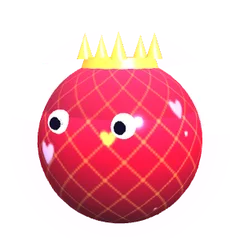
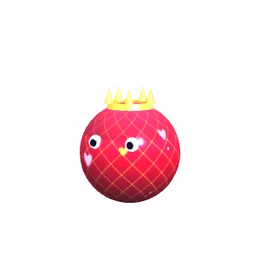
2.7: news poster in a wide window, Кибер-сетка retired, no antennae on Неон and Глитч
- The news window uses the screen width; the poster tiles sit 3 + 3 in
  landscape and 2 per row in portrait; the window opens at its top.
- «Кибер-сетка» repeated «Неон»: archived, out of the shop, the Кибер
  collection, level rewards and bots. Owners get «Неон», or 7200 coins if
  they already have it; the worn skin follows. One line in the notice.
- Неон and Глитч lose the antenna head.
- Hero images re-rendered unclipped; random build and boss raid named as
  updated; compact pause buffs; grouped update cards.

Claude-Session: https://claude.ai/code/session_01BGg67QGFc2pPgh9iksJ3Cf

diff --git a/kapli-3d/js/game/08-menus.js b/kapli-3d/js/game/08-menus.js
@@ -88,7 +88,7 @@
     tutModal(title, body, done && !save.tourSeen ? [['tourGo', 'Дальше: тур по меню', 'btn'], ['tutOk', 'Пропустить тур', 'btn ghost']] : [['tutOk', 'В меню', 'btn']]);
   }
   function tutModal(title, body, btns) {
-    $('tutMName').textContent = title; $('tutMBody').innerHTML = body;
+    $('tutMName').textContent = title; $('tutMBody').innerHTML = body; $('tutModal').classList.remove('nw-wide');
     $('tutMActs').innerHTML = btns.map(([id, t, cls]) => `<button class="${cls}" id="${id}">${t}</button>`).join('');
     $('tutModal').hidden = false; $(btns[0][0]).focus();
   }
@@ -157,33 +157,49 @@
   const NEWS = [
     // 2.7: the first entry with cards — a hero card and a grid; each card opens big (newsBig). Older entries stay text in «Архив обновлений».
     { id: 200, ver: '2.7.0', date: '24 ноября', title: 'Характеры и живая арена', kind: 'season',
-      lead: 'Выбирай характер, переживи события арены и опробуй обновлённые скины.',
-      hero: { imgs: ['neon', 'h_valentine', 's_7', 'h_halloween', 's_25'], body: '<p>Самое большое обновление осени: характеры перед раундом, восемь событий арены, новый Случайный билд и Босс-рейд, переработанные способности, игра вдвоём по ссылке, обновлённые скины, рамки и титулы — и заметно плавнее на телефонах.</p><p>Листай карточки или открой любую, чтобы прочитать подробнее.</p>' },
+      lead: 'Характеры, события арены, игра вдвоём через интернет, эволюции скинов и новый вид меню.',
+      poster: { sub: 'Характеры · живая арена · вдвоём через интернет · эволюции скинов', foot: 'Ниже — все 16 изменений по группам',
+        tiles: [[0, '#22e6ff', 'chars', 'Характеры', 'Выбери характер перед раундом: у каждого плюс и минус'], [1, '#ff4fd8', 'events', 'Живая арена', 'Восемь событий меняют раунд прямо на ходу'],
+          [8, '#ffd23f', 'online', 'Вдвоём через интернет', '«Захват территории» и «Спина к спине» на любом расстоянии'], [9, '#b26bff', 'evo', 'Эволюции скинов', 'Скины растут в формах I–III прямо в раунде'],
+          [4, '#3dffa2', 'modes', 'Режимы обновлены', 'Классика, Хардкор, Случайный билд и Босс-рейд'], [15, '#ff9a3d', 'fps', 'Плавнее', 'Меньше рывков на телефонах — картинка та же']] },
+      hero: { imgs: ['neon', 'h_valentine', 's_7', 'h_halloween', 's_25'], body: '<p>Самое большое обновление осени. Перед раундом выбираешь характер, на арене случаются события, обновлены Классика, Хардкор, Случайный билд и Босс-рейд, режимы для двоих теперь работают через интернет. Скины растут в формах прямо в раунде, многие получили новый облик, рамки стали объёмными, титулы — лентами, вкладки перекомпонованы — и игра заметно плавнее на телефонах.</p><p>Листай карточки или открой любую, чтобы прочитать подробнее.</p>' },
       cards: [
-        { t: 'Характеры', l: 'Перед раундом выбери, каким будешь: у каждого свой плюс и минус.', v: 'chars',
+        { g: 'Игра', t: 'Характеры', l: 'Перед раундом выбери, каким будешь: у каждого свой плюс и минус.', v: 'chars',
           b: '<p>Перед каждым одиночным раундом открывается окно выбора характера.</p><ul><li><b>Хищник</b> — съеденные боты и боссы дают +15%, но таешь на 10% быстрее.</li><li><b>Собиратель</b> — крошки +30% и притягиваются издалека, боты дают −15%.</li><li><b>Танк</b> (с 10 уровня) — съесть тебя можно только будучи крупнее в 1,4 раза, но ты на 8% медленнее.</li><li><b>Призрак</b> (с 15) — боты замечают тебя вдвое позже, масса растёт на 10% медленнее.</li><li><b>Берсерк</b> (с 20) — перезарядка −15%, но щит и бонусы короче на 25%.</li></ul><p>В рейтинговых играх характеров нет.</p>' },
-        { t: 'События арены', l: 'Восемь событий меняют раунд прямо на ходу.', v: 'events',
+        { g: 'Игра', t: 'События арены', l: 'Восемь событий меняют раунд прямо на ходу.', v: 'events',
           b: '<p>О событии предупреждают заранее, а на мини-карте видно, где оно.</p><ul><li><b>Звездопад</b> — метеоры в отмеченной зоне, между ними золотые капли.</li><li><b>Разлом</b> — тянет к центру, касание центра отнимает 10% массы.</li><li><b>Ветер</b> — сносит всех в одну сторону.</li><li><b>Затмение</b> — темно, мини-карта гаснет, боты видят вдвое ближе.</li><li><b>Золотая капля</b> — убегает по полю, поймай за монеты.</li><li><b>Монетный дождь</b> — монеты сразу за каждого съеденного.</li><li><b>Землетрясение</b> — край арены горит, снаружи кольца масса тает.</li><li><b>Награда за голову</b> — самая крупная капля помечена.</li></ul>' },
-        { t: 'Случайный билд', l: 'На вехах — пауза и две карточки замены с редкостью.', v: 'rb',
-          b: '<p>На вехах массы игра встаёт на паузу и предлагает две карточки: можно заменить одну из способностей. Карточки бывают обычные, редкие, эпические и легендарные — чем реже, тем сильнее.</p>' },
-        { t: 'Босс-рейд', l: 'Пять ступеней сложности и пара колоссов-близнецов.', v: 'raid',
-          b: '<p>Перед стартом выбери ступень от I до V. Колоссы атакуют волнами, рывками и взрывами, у колосса недели — особая атака. За ступень V — титул «Гроза колоссов».</p>' },
-        { t: 'Способности', l: 'Две новые и честный баланс остальных.', v: 'abil',
-          b: '<ul><li><b>Метка</b> вместо Скачка: первое нажатие ставит метку, второе в течение 10 с переносит к ней.</li><li><b>Засада</b> вместо Маскировки: ешь капли при меньшем перевесе и получаешь больше массы.</li><li>Насыщение и Сжатие переработаны, сильные способности урезаны, слабые усилены.</li></ul>' },
-        { t: 'Вдвоём онлайн', l: 'Комната по ссылке и плавное движение соперника.', v: 'online',
-          b: '<ul><li>Код комнаты можно отправить ссылкой — по ней друг сразу попадает в комнату.</li><li>Движение второго игрока сглажено, связь сама восстанавливается.</li><li>Исправлены ник в таблице, таймер щита и вечная неуязвимость в «Захвате территории».</li></ul>' },
-        { t: 'Пауза с бафами', l: 'На паузе видно, какие улучшения ты выбрал.', v: 'pause',
-          b: '<p>В меню паузы появился блок «Твои бафы»: выбранные в раунде карточки и когда ты их взял, минусы отмечены отдельно. Бафы скорости теперь действительно ускоряют.</p>' },
-        { t: 'Обновлённые скины', l: 'Скины переделаны, годовые — с живой анимацией.', v: 'skins',
+        { g: 'Игра', t: 'Способности', l: 'Две новые и честный баланс остальных.', v: 'abil',
+          b: '<ul><li><b>Метка</b> вместо Скачка: первое нажатие ставит метку, второе в течение 10 с переносит к ней.</li><li><b>Засада</b> вместо Маскировки: ешь капли при меньшем перевесе и получаешь больше массы.</li><li>Насыщение и Сжатие переработаны, сильные способности урезаны, слабые усилены.</li><li>Купленные способности — компактной сеткой плиток.</li></ul>' },
+        { g: 'Игра', t: 'Рост и скорость', l: 'Все капли быстрее, большие растут медленнее.', v: 'grow',
+          b: '<ul><li>Все капли во всех режимах на 35% быстрее.</li><li>С 10 000 массы капля растёт медленнее и в размере, и в массе (кроме Хардкора и Босс-рейда) — большая игра стала дольше и интереснее.</li><li>Намного более тяжёлой капле достаточно накрыть центр меньшей, чтобы её съесть.</li><li>Шипы уходят с поля после 10 000, замедления стали короче.</li></ul>' },
+        { g: 'Режимы', t: 'Классика', l: 'На 50 000 капля делится — вырасти обе половины.', v: 'classic',
+          b: '<p>Классика стала сложнее и интереснее: вехи массы с наградой, боссы растут вслед за тобой, боты смелее. На 50 000 капля делится на две половины — цель вырастить обе. Капля, потерявшая половину, снова делится, когда опять дорастёт до 50 000.</p>' },
+        { g: 'Режимы', t: 'Хардкор', l: 'Двойной укус, проклятия, стаи и новые награды.', v: 'hc',
+          b: '<ul><li>Победа — удержать обе половины на 50 000 в течение 15 секунд.</li><li><b>Двойной укус</b>: две половины вместе съедают босса и делят его массу.</li><li>Проклятия раз в минуту-полторы, стаи ботов, на вехах — карточки улучшений с риском.</li><li>Стая, укусив тебя, 2,5 с не кусает снова.</li><li>Новые награды: значки лестницы 75K и 88K и фон «Трон затмения».</li></ul>' },
+        { g: 'Режимы', t: 'Случайный билд — обновлён', l: 'На вехах — пауза и две карточки замены с редкостью.', v: 'rb',
+          b: '<p>Раньше билд выпадал один раз на раунд. Теперь на пяти вехах массы игра встаёт на паузу и предлагает две карточки — можно заменить одну из способностей. Карточки бывают обычные, редкие, эпические и легендарные: чем реже, тем больше уровней на этот раунд.</p>' },
+        { g: 'Режимы', t: 'Босс-рейд — обновлён', l: 'Недельная лестница из пяти ступеней и пара колоссов.', v: 'raid',
+          b: '<p>Вместо трёх попыток в день — недельная лестница: перед стартом выбери ступень от I до V. Колоссы-близнецы с тремя фазами, атаки видно заранее, у колосса недели — особая атака. За ступень V — титул «Гроза колоссов».</p>' },
+        { g: 'Вдвоём', t: 'Вдвоём через интернет', l: '«Захват территории» и «Спина к спине» — на любом расстоянии.', v: 'online',
+          b: '<ul><li>Режимы для двоих работают через сервер игры: можно играть с другом в другом городе.</li><li>Код комнаты можно отправить ссылкой — по ней друг сразу попадает в комнату.</li><li>Движение второго игрока сглажено, связь сама восстанавливается, «Выход» завершает матч у обоих.</li><li>«Захват территории»: поле меньше, боты медленнее, крошек больше.</li></ul>' },
+        { g: 'Коллекция', t: 'Эволюции скинов', l: 'Семь скинов растут в формах I–III прямо в раунде.', v: 'evo',
+          b: '<p>Скины с эволюцией меняют форму, когда ты выполняешь цель: прямо в раунде — вспышка, кольца и звук, потом окно «Эволюция!». Любую открытую форму можно надеть в гардеробе. Живые фоны профиля «Арена Берсерка», «Двойная спираль» и «Пятидесятая волна» растут вместе со своими скинами. Скины с эволюцией отмечены значком ДНК.</p>' },
+        { g: 'Коллекция', t: 'Обновлённые скины', l: 'Новый облик, годовые — с живой анимацией.', v: 'skins',
           b: '<p>Многие скины получили новый облик. «Королева сердец», «Тыквенный король», «Пульсар» и «Вулкан» анимированы целиком: плывут сердца, мерцает свеча, бегут лучи, течёт лава. Новые скины: «Мятная капля» для новичков, «Ягодный пончик», «Аквариум», «Обсидиан» и «Охотник на боссов». Если у тебя был переделанный скин — он остался у тебя в новом виде.</p>' },
-        { t: 'Рамки и титулы', l: 'Меньше, но ценнее: объёмные рамки и титулы-ленты.', v: 'deco',
-          b: '<p>Рамки стали объёмными, как стекло, а титулы — наградными лентами под ником. Похожие награды объединены: если у тебя была убранная рамка или титул, ты получил ближайшую оставшуюся (а если она уже была — монеты).</p>' },
-        { t: 'Плавнее на телефонах', l: 'Меньше рывков даже при огромной массе.', v: 'fps',
-          b: '<p>Мы переработали отрисовку арены: одинаковые детали рисуются за один раз, шейдеры готовятся до начала раунда, игра реже останавливается на уборку памяти. Картинка та же, рывков заметно меньше.</p>' },
+        { g: 'Коллекция', t: 'Рамки и титулы', l: 'Меньше, но ценнее: объёмные рамки и титулы-ленты.', v: 'deco',
+          b: '<p>Рамки стали объёмными, как стекло, а титулы — наградными лентами. Похожие награды объединены: если у тебя была убранная рамка или титул, ты получил ближайшую оставшуюся (а если она уже была — монеты). «Мастер оружия» теперь дают за 5-й уровень всех обычных способностей.</p>' },
+        { g: 'Коллекция', t: 'Хронос 2.0', l: 'Мастерская: 23 предмета и легендарный «Скелетон».', v: 'gear',
+          b: '<p>Серия Мастерской «Хронос» собрана заново: 23 предмета вместо прежнего набора, шестерёнки сцепляются, песочные часы переворачиваются. «Скелетон» стал легендарным скином с эволюцией. Предметы, которые больше не создаются, остаются у тех, кто успел.</p>' },
+        { g: 'Меню', t: 'Вкладки и меню', l: 'Перекомпоновка экранов, группы и одна иконка на вещь.', v: 'tabs',
+          b: '<ul><li>Четыре экрана перекомпонованы, исправлены ошибки и устаревшие тексты, обновлена справка.</li><li>Профиль, гардероб и питомцы: вместо стопки ящиков — ряд групп-кнопок, плитки компактнее.</li><li>Одна иконка на каждую вещь — в магазине, гардеробе и коллекциях; арена везде стадион.</li><li>Обновления — карточками, старые версии в архиве.</li></ul>' },
+        { g: 'Меню', t: 'Пауза с бафами', l: 'На паузе видно, какие улучшения ты выбрал.', v: 'pause',
+          b: '<p>В меню паузы появился блок «Твои бафы»: выбранные в раунде карточки и когда ты их взял, минусы отмечены отдельно. Бафы скорости теперь действительно ускоряют.</p>' },
+        { g: 'Техника', t: 'Плавнее на телефонах', l: 'Меньше рывков даже при огромной массе.', v: 'fps',
+          b: '<p>Отрисовка арены переработана: одинаковые детали рисуются за один раз, шейдеры готовятся до начала раунда, игра реже останавливается на уборку памяти. Картинка та же, рывков заметно меньше.</p>' },
       ],
-      items: ['Характеры перед одиночным раундом: Хищник, Собиратель, Танк, Призрак, Берсерк.', 'Восемь событий арены.', 'Случайный билд: карточки замены с редкостью на вехах.', 'Босс-рейд: пять ступеней и пара колоссов.',
-        'Способности: Метка вместо Скачка, Засада вместо Маскировки, баланс остальных.', 'Вдвоём онлайн: комната по ссылке, плавное движение.', 'Пауза показывает выбранные бафы.', 'Обновлённые и новые скины, годовые — с живой анимацией.',
-        'Рамки «Стекло», титулы-ленты; похожие награды объединены.', 'Плавнее на телефонах.'] },
+      items: ['Характеры перед одиночным раундом.', 'Восемь событий арены.', 'Способности: Метка, Засада, баланс.', 'Все капли быстрее, большие растут медленнее.', 'Классика: деление на 50 000.', 'Хардкор: двойной укус, проклятия, стаи, награды лестницы.',
+        'Случайный билд обновлён: замена на вехах с редкостью.', 'Босс-рейд обновлён: недельная лестница из пяти ступеней.', 'Режимы для двоих через интернет, комната по ссылке.', 'Эволюции скинов I–III в раунде.', 'Обновлённые и новые скины.',
+        'Рамки «Стекло», титулы-ленты.', 'Хронос 2.0: 23 предмета, «Скелетон».', 'Вкладки перекомпонованы, одна иконка на вещь.', 'Пауза с бафами.', 'Плавнее на телефонах.'] },
     { id: 189, ver: '2.5.0', date: '14 ноября', title: 'Вдвоём: «Захват территории» и «Спина к спине», обновлённые режимы', kind: 'season',
       lead: 'Два режима для двоих на двух телефонах и большая переработка старых режимов: у каждого теперь своя цель внутри раунда.', items: [
       '«Захват территории» вместо «Испытания дня»: поле поделено границей, ешь ботов на своей половине — граница ползёт к тому, кто легче. 4 минуты, досрочная победа при 80% поля.',
@@ -413,14 +429,24 @@
     pause: () => `<div class="nw-v nw-pause"><span class="hd">⏸ Твои бафы</span><span>Скорость +6%</span><span>Магнит +10%</span><span class="ep">Хищник +18%</span><span class="bad">Вязкость −5%</span></div>`,
     skins: () => `<div class="nw-v nw-skins">${['h_valentine', 's_7', 'h_halloween'].map(f => `<img src="news/27_${f}.webp" alt="" loading="lazy">`).join('')}</div>`,
     deco: () => `<div class="nw-v nw-deco"><span class="fr fn fr-l" style="--a:#22e6ff;--b:#b26bff">Капля</span>${titleTag('tt_sk13')}</div>`,
+    grow: () => `<div class="nw-v nw-grow"><span style="--s:14"></span><span style="--s:22"></span><span style="--s:30"></span><em>×1,35 скорость</em></div>`,
+    classic: () => `<div class="nw-v nw-classic"><span>25 000</span><b>+</b><span>25 000</span><em>цель: обе по 50 000</em></div>`,
+    hc: () => `<div class="nw-v nw-hc"><span>75K</span><span>88K</span><span class="win">100K</span><em>☠ двойной укус</em></div>`,
+    evo: () => `<div class="nw-v nw-evo"><span style="--s:18">I</span><b>→</b><span style="--s:26">II</span><b>→</b><span style="--s:34">III</span></div>`,
+    gear: () => `<div class="nw-v nw-gear"><span>⚙</span><span class="sm">⚙</span><em>23 предмета</em></div>`,
+    modes: () => `<div class="nw-v nw-modes"><span>Классика</span><span>Хардкор</span><span>Случ. билд</span><span>Босс-рейд</span></div>`,
+    tabs: () => `<div class="nw-v nw-tabs"><span class="on">Скины</span><span>Питомцы</span><span>Рамки</span><span>Титулы</span><span>Фоны</span></div>`,
     fps: () => `<div class="nw-v nw-fps"><span style="--h:92"><small>было</small></span><span style="--h:38" class="now"><small>стало</small></span><em>рывков меньше</em></div>`,
   };
   let nwCur = null, nwI = 0, nwBack = null;
   function newsCards(n) {
     nwCur = n;
-    const hero = `<button type="button" class="nw-hero" data-nw="-1" aria-haspopup="dialog"><div class="nw-v nw-skins nw-wide">${n.hero.imgs.map(f => `<img src="news/27_${f}.webp" alt="" loading="lazy">`).join('')}</div>` +
-      `<div class="nw-ht"><span class="nw-tag">${n.ver} · ${NEWS_KIND[n.kind || 'update'][1].replace(/^\S+\s/, '')} · ${n.date}</span><b>${n.title}</b><span>${n.lead}</span></div></button>`;
-    return hero + `<div class="nw-grid">${n.cards.map((c, i) => `<button type="button" class="nw-card" data-nw="${i}" aria-haspopup="dialog">${NW_VIS[c.v]()}<span class="nw-ct">${c.t}</span><span class="nw-cl">${c.l}</span></button>`).join('')}</div>` +
+    // 2.7: the main card is a poster (owner's reference): the logo, the version, a line of highlights, six neon tiles that open their cards, a footer
+    const P = n.poster, hero = `<section class="nw-poster" aria-label="Обновление ${n.ver}"><div class="nw-ph"><b class="nw-logo">Капли <i>3D</i></b><span class="nw-pill">Обновление ${n.ver}</span></div>` +
+      `<p class="nw-psub">${P.sub}</p><div class="nw-tiles">${P.tiles.map(([i, col, vis, t, l]) => `<button type="button" class="nw-tile" style="--c:${col}" data-nw="${i}" aria-haspopup="dialog"><b>${t}</b><span>${l}</span>${NW_VIS[vis]()}</button>`).join('')}</div>` +
+      `<div class="nw-pf"><span>${P.foot}</span><button type="button" data-nw="-1">Обзор обновления ›</button></div></section>`;
+    const groups = [...new Set(n.cards.map(c => c.g || ''))];
+    return hero + groups.map(g => (g ? `<h4 class="nw-g">${g}</h4>` : '') + `<div class="nw-grid">${n.cards.map((c, i) => (c.g || '') !== g ? '' : `<button type="button" class="nw-card" data-nw="${i}" aria-haspopup="dialog">${NW_VIS[c.v]()}<span class="nw-ct">${c.t}</span><span class="nw-cl">${c.l}</span></button>`).join('')}</div>`).join('') +
       (newsGift(n) ? `<p class="news-gift">🎁 Подарок: ${newsGift(n)} ◆</p>` : '');
   }
   function newsBig(i) {
@@ -428,7 +454,7 @@
     let ov = $('nwOv'); if (!ov) { ov = document.createElement('div'); ov.id = 'nwOv'; ov.className = 'nw-ov'; ov.hidden = true; ov.innerHTML = '<div class="nw-big" id="nwBig" role="dialog" aria-modal="true" aria-labelledby="nwBt"></div>'; document.body.appendChild(ov); }
     nwI = i; const hero = i < 0, c = hero ? { t: `${n.ver} — ${n.title}`, l: n.lead, b: n.hero.body } : n.cards[i], N = n.cards.length;
     const vis = hero ? `<div class="nw-v nw-skins nw-wide">${n.hero.imgs.map(f => `<img src="news/27_${f}.webp" alt="">`).join('')}</div>` : NW_VIS[c.v]();
-    $('nwBig').innerHTML = vis + `<h2 id="nwBt">${c.t}</h2><p class="nw-bl">${c.l}</p><div class="nw-bb">${c.b}</div>` +
+    $('nwBig').innerHTML = vis + `<div class="nw-txt"><h2 id="nwBt">${c.t}</h2><p class="nw-bl">${c.l}</p><div class="nw-bb">${c.b}</div></div>` +
       `<div class="nw-nav"><button type="button" data-nwgo="-1" aria-label="Предыдущая карточка">‹</button><span>${hero ? 'обзор' : (i + 1) + ' из ' + N}</span><button type="button" data-nwgo="1" aria-label="Следующая карточка">›</button><button type="button" class="nw-x" data-nwx>Закрыть</button></div>`;
     ov.hidden = false; $('nwBig').scrollTop = 0; $('nwBig').querySelector('[data-nwx]').focus();
   }
@@ -471,7 +497,7 @@
   function openNews(onlyNew) {
     const list = onlyNew ? newsUnseen() : NEWS;
     tutModal(onlyNew ? 'Что нового' : 'Обновления', newsHtml(list), onlyNew ? [['newsOk', 'Понятно', 'btn'], ['newsAll', 'Все обновления', 'btn ghost']] : [['newsOk', 'Закрыть', 'btn']]);
-    $('tutMBody').scrollTop = 0;
+    $('tutModal').classList.add('nw-wide'); $('tutMBody').scrollTop = 0; $('tutModal').querySelector('.modal-card').scrollTop = 0;   // the button's focus scrolled the window to its end
   }
   $('newsBtn').addEventListener('click', () => { const fresh = newsUnseen().length; openNews(false); if (fresh) newsMarkSeen(); });
   $('tutModal').addEventListener('click', e => {

diff --git a/kapli-3d/css/04-features.css b/kapli-3d/css/04-features.css
@@ -790,3 +790,48 @@ body.raid-ink #stage { filter: brightness(.45) saturate(.7); transition: filter 
 .nw-bb { font-size: .92rem; color: #ddd8f8; } .nw-bb ul { padding-left: 18px; display: grid; gap: 5px; margin: 6px 0; } .nw-bb p { margin: 0 0 8px; }
 .nw-nav { display: flex; gap: 8px; align-items: center; } .nw-nav button { font: 700 .85rem/1 var(--body); color: #ece8ff; background: #1d1242; border: 1px solid rgba(150, 120, 255, .3); border-radius: 999px; padding: 10px 14px; cursor: pointer; }
 .nw-nav .nw-x { margin-left: auto; } .nw-nav span { color: #a59ccc; font-size: .78rem; }
+
+/* 2.7 updates: group headings, the new card visuals, and a wide big card in landscape (picture left, text right) */
+.nw-g { margin: 14px 2px 6px; font: 700 .74rem/1 var(--body); letter-spacing: .08em; text-transform: uppercase; color: #a59ccc; }
+.nw-grow { align-items: flex-end; gap: 8px; } .nw-grow span { width: calc(var(--s) * 1px); height: calc(var(--s) * 1px); border-radius: 50%; background: radial-gradient(circle at 35% 30%, #fff, #3dffa2 45%, #0a6a4a); } .nw-grow em { width: 100%; text-align: center; font-style: normal; font-size: .62rem; color: #3dffa2; }
+.nw-classic span { width: 52px; height: 52px; border-radius: 50%; display: grid; place-items: center; font: 700 .58rem/1 var(--body); background: radial-gradient(circle at 35% 30%, #ffb59a, #ff6a3d 55%, #7a1a00); } .nw-classic b { color: #ffd23f; } .nw-classic em { width: 100%; text-align: center; font-style: normal; font-size: .62rem; color: #ffd23f; }
+.nw-hc span { font: 700 .66rem/1 var(--body); padding: 7px 9px; border-radius: 8px; background: #2a0a12; box-shadow: inset 0 0 0 1px #ff2d55; color: #ffb0c0; } .nw-hc .win { background: #3a2400; box-shadow: inset 0 0 0 1px #ffd23f; color: #ffd23f; } .nw-hc em { width: 100%; text-align: center; font-style: normal; font-size: .62rem; color: #ff6a80; }
+.nw-evo { gap: 6px; } .nw-evo span { width: calc(var(--s) * 1px); height: calc(var(--s) * 1px); border-radius: 50%; display: grid; place-items: center; font: 700 .6rem/1 var(--body); background: radial-gradient(circle at 35% 30%, #ff9a9a, #c8102e 55%, #3a0008); box-shadow: 0 0 10px rgba(255, 45, 85, .5); } .nw-evo b { color: #ff4fd8; font-size: .8rem; }
+.nw-gear span { font-size: 2.2rem; color: #ffd27a; text-shadow: 0 0 10px rgba(255, 210, 122, .6); animation: nwSpin 6s linear infinite; } .nw-gear .sm { font-size: 1.4rem; animation-direction: reverse; } .nw-gear em { width: 100%; text-align: center; font-style: normal; font-size: .62rem; color: #ffd27a; }
+@keyframes nwSpin { to { transform: rotate(360deg); } } @media (prefers-reduced-motion: reduce) { .nw-gear span { animation: none; } }
+.nw-tabs { gap: 4px; } .nw-tabs span { font: 700 .6rem/1 var(--body); padding: 6px 8px; border-radius: 999px; background: #1d1242; color: #a59ccc; } .nw-tabs .on { background: rgba(34, 230, 255, .18); color: #22e6ff; }
+.nw-big { grid-template-columns: 1fr; }
+@media (min-width: 640px) and (orientation: landscape), (min-width: 900px) {
+  .nw-big { width: min(980px, 100%); grid-template-columns: minmax(220px, 40%) 1fr; grid-template-areas: "vis txt" "vis nav"; align-items: start; column-gap: 18px; padding: 16px 18px; }
+  .nw-big > .nw-v { grid-area: vis; min-height: 0; height: 100%; max-height: 360px; align-self: stretch; }
+  .nw-big > .nw-txt { grid-area: txt; } .nw-big > .nw-nav { grid-area: nav; align-self: end; }
+}
+.nw-txt { display: grid; gap: 8px; min-width: 0; }
+/* 2.7 pause: buffs as compact chips, the picked cards as smaller tiles */
+.ps-buffs { display: flex; flex-wrap: wrap; gap: 4px; }
+.ps-buffs li { display: inline-flex; gap: 6px; padding: 3px 8px; border-radius: 999px; font-size: .74rem; }
+.ps-buffs li.sub { padding: 2px 8px; font-size: .68rem; background: rgba(255, 255, 255, .03); }
+.ps-buffs .pb-n { gap: 4px; } .ps-buffs small { display: none; }
+.ps-picks { grid-template-columns: repeat(auto-fill, minmax(140px, 1fr)); gap: 4px; }
+.ps-picks li { gap: 5px; padding: 3px 6px; border-radius: 8px; } .ps-picks .pk-ic { font-size: .95rem; } .ps-picks .pk-t b { font-size: .72rem; } .ps-picks .pk-t small { font-size: .6rem; }
+
+/* 2.7 the poster (the main card of an update) */
+.nw-poster { border-radius: 20px; padding: 16px; margin-bottom: 6px; display: grid; gap: 12px; background: radial-gradient(90% 120% at 100% 0%, rgba(34, 230, 255, .18), transparent 55%), radial-gradient(120% 120% at 0% 100%, rgba(255, 79, 216, .16), transparent 55%), linear-gradient(180deg, #1c0f42, #120a2c); box-shadow: inset 0 0 0 1px rgba(255, 255, 255, .08); }
+.nw-ph { display: flex; flex-wrap: wrap; align-items: center; gap: 10px 14px; }
+.nw-logo { font: 400 clamp(1.5rem, 6vw, 2.3rem)/1 var(--display); color: #fff; letter-spacing: .01em; }
+.nw-logo i { font-style: normal; color: #22e6ff; text-shadow: 0 0 14px rgba(34, 230, 255, .7); }
+.nw-pill { font: 700 .82rem/1 var(--body); color: #ffd23f; padding: 7px 12px; border-radius: 999px; box-shadow: inset 0 0 0 2px #ffd23f, 0 0 12px rgba(255, 210, 63, .35); }
+.nw-psub { margin: 0; color: #c8bff0; font-size: .92rem; font-weight: 600; }
+.nw-tiles { display: grid; grid-template-columns: repeat(auto-fill, minmax(min(100%, 140px), 1fr)); gap: 10px; }
+.nw-tile { text-align: left; font: inherit; color: inherit; cursor: pointer; display: grid; grid-template-rows: auto auto 1fr; gap: 4px; padding: 12px; border-radius: 16px; border: 2px solid var(--c); background: rgba(12, 7, 32, .88); box-shadow: 0 0 14px color-mix(in srgb, var(--c) 40%, transparent), inset 0 0 18px color-mix(in srgb, var(--c) 12%, transparent); }
+.nw-tile:hover, .nw-tile:focus-visible { outline: none; box-shadow: 0 0 22px color-mix(in srgb, var(--c) 65%, transparent), inset 0 0 18px color-mix(in srgb, var(--c) 18%, transparent); }
+.nw-tile > b { font: 400 1rem/1.15 var(--display); color: #fff; } .nw-tile > span { font-size: .76rem; color: #c8bff0; }
+.nw-tile .nw-v { background: none; min-height: 70px; align-self: end; padding: 6px 0 0; }
+.nw-pf { display: flex; flex-wrap: wrap; justify-content: space-between; align-items: center; gap: 8px; font-size: .8rem; color: #c8bff0; }
+.nw-pf button { font: 700 .82rem/1 var(--body); color: #22e6ff; background: rgba(34, 230, 255, .12); border: 1px solid rgba(34, 230, 255, .4); border-radius: 999px; padding: 9px 14px; cursor: pointer; }
+.nw-modes { gap: 4px; } .nw-modes span { font: 700 .62rem/1 var(--body); padding: 6px 8px; border-radius: 8px; color: #3dffa2; background: rgba(61, 255, 162, .12); box-shadow: inset 0 0 0 1px rgba(61, 255, 162, .45); }
+.nw-big > .nw-v { align-content: center; }
+
+/* 2.7 the news window uses the screen: a poster of tiles instead of one narrow column */
+#tutModal.nw-wide .modal-card { width: min(960px, calc(100vw - 24px)); max-width: none; box-sizing: border-box; }
+@media (min-width: 640px) { .nw-tiles { grid-template-columns: repeat(3, minmax(0, 1fr)); } }   /* six tiles: 3 + 3, never 5 + 1 */

diff --git a/kapli-3d/js/game/01-config.js b/kapli-3d/js/game/01-config.js
@@ -568,7 +568,7 @@
     { id: 'col_sweet',  name: 'Сладкоежка',        skins: ['marmalade', 'melon', 'c_caramel', 'c_soda', 'c_peach'],       hat: 'cherry',    coins: 1000 },
     { id: 'col_space',  name: 'Космос',            skins: ['saturn', 'c_nebula', 'c_starborn', 'c_crystal'],              hat: 'planet',    coins: 1500 },
     { id: 'col_elem',   name: 'Стихии',            skins: ['ocean', 'phoenix', 'magma', 'c_marble'],                      hat: 'snowflake', coins: 1500 },
-    { id: 'col_cyber',  name: 'Кибер',             skins: ['neon', 'cyber', 'c_circuit', 'matrix', 'c_chrome'],           hat: 'propeller', coins: 1500 },
+    { id: 'col_cyber',  name: 'Кибер',             skins: ['neon', 'c_circuit', 'matrix', 'c_chrome'],           hat: 'propeller', coins: 1500 },
     { id: 'col_royal',  name: 'Королевская семья', skins: ['champion', 'titan', 'abyss'],                                 hat: 'tophat',    coins: 2000 },
     { id: 'col_nature', name: 'Природа',           skins: ['coral', 'amanita', 'c_chameleon', 'c_neontiger', 'c_lavalamp'], hat: 'sprout',  coins: 1000 },
     // effect collections: reward is a unique title
@@ -1181,7 +1181,7 @@
   // 2.7: skins reworked with the owner (the showcase). Same ids, so whoever owns one keeps the slot with the new look; renamed ones are listed once (save: deco27)
   const LOOK_KEYS_27 = ['color', 'accent', 'pattern', 'mat', 'anim', 'head', 'shine', 'emi', 'emiColor', 'flow', 'glow', 'holo', 'holoBase', 'holoSpan', 'bubbles', 'crown', 'live', 'pulse', 'rainbow'];
   const SKIN_27 = {
-    neon:        [null, 'неоновые дорожки микросхемы по тёмному телу, антенны', { color: '#0d0624', accent: '#22e6ff', pattern: 'circuit', emi: true, emiColor: '#22e6ff', mat: 'rim', anim: 'flicker', glow: true, head: 'antenna' }],
+    neon:        [null, 'неоновые дорожки микросхемы по тёмному телу', { color: '#0d0624', accent: '#22e6ff', pattern: 'circuit', emi: true, emiColor: '#22e6ff', mat: 'rim', anim: 'flicker', glow: true }],
     marmalade:   ['Аквариум', 'стеклянный шар с волнами и пузырьками', { color: '#1f8bff', accent: '#bff4ff', mat: 'glass', pattern: 'waves', flow: [.04, 0], bubbles: true, glow: true }],
     coral:       ['Мятная капля', 'свежая мятная капля, мягко дышит', { color: '#36f2c3', accent: '#e8fffb', pattern: 'gradient', anim: 'breath', glow: true }],
     c_crystal:   [null, 'голубые грани, призма и блик', { color: '#1a8cff', accent: '#9fe8ff', pattern: 'facets', head: 'prism', shine: 'bolt', anim: 'breath', glow: true }],
@@ -1202,9 +1202,10 @@
     h_halloween: [null, 'светится вырезанная ухмылка, мерцает свеча, летят искры', { color: '#ff7a00', accent: '#ffd23f', pattern: 'live', live: 'jack', head: 'stem', crown: true, glow: true }],
     h_newyear:   [null, 'ледяной кристалл, снег внутри, корона', { color: '#cfefff', accent: '#4d7cff', pattern: 'snow', flow: [0, -.08], mat: 'crystal', head: 'icecrown', shine: 'bolt', glow: true }],
     cs_q3:       [null, 'фрактал в стекле, призма', { color: '#120830', accent: '#3dffa2', pattern: 'fractal', flow: [.05, .05], mat: 'glass', head: 'prism', glow: true }],
-    cs_q1:       [null, 'сбоящий контур и антенны', { color: '#0a0a1a', accent: '#ff2d55', pattern: 'glitch', anim: 'glitch', mat: 'rim', head: 'antenna', glow: true }],
+    cs_q1:       [null, 'сбоящий контур, цифровой сбой', { color: '#0a0a1a', accent: '#ff2d55', pattern: 'glitch', anim: 'glitch', mat: 'rim', glow: true }],
   };
   const SKIN_RENAMED_27 = {};
+  { const cy = SKINS.find(k => k.id === 'cyber'); if (cy) { cy.old = true; delete cy.price; delete cy.lvl; } }   // 2.7: «Кибер-сетка» repeated «Неон» — retired
   for (const [id, [nm, sig, look]] of Object.entries(SKIN_27)) { const s = SKINS.find(k => k.id === id); if (!s) continue;
     if (nm && nm !== s.name) { SKIN_RENAMED_27[id] = s.name; s.name = nm; } s.sig = sig; LOOK_KEYS_27.forEach(k => delete s[k]); Object.assign(s, look); }
   // two new skins from the showcase: the boss hunter (challenge «Гроза гигантов») and obsidian (epic chest)

diff --git a/kapli-3d/js/game/02-save.js b/kapli-3d/js/game/02-save.js
@@ -347,6 +347,10 @@
     for (const k of ['frame', 'title']) if (save[k] && DECO_MAP_27[save[k]]) save[k] = DECO_MAP_27[save[k]];
     if ((save.chDone || []).includes('ch_giant5') && !save.skins.includes('ch_hunter')) { save.skins.push('ch_hunter'); lines.push('Испытание «Гроза гигантов» теперь даёт скин «Охотник на боссов» — он уже у тебя'); }
     for (const [id, was] of Object.entries(SKIN_RENAMED_27)) if (save.skins.includes(id)) lines.push(`Скин «${was}» → «${SKINS.find(k => k.id === id).name}»`);
+    if (save.skins.includes('cyber')) { save.skins = save.skins.filter(x => x !== 'cyber');
+      if (!save.skins.includes('neon')) { save.skins.push('neon'); lines.push('Скин «Кибер-сетка» убран (повторял «Неон») → «Неон»'); }
+      else { coins += 7200; lines.push('Скин «Кибер-сетка» убран (повторял «Неон») → +7200 ◆ (у тебя уже есть «Неон»)'); }
+      if (save.skin === 'cyber') save.skin = 'neon'; }
     arsenalTitleCheck();
     if (coins) coinsAdd(coins, 'refund');
     save.deco27 = { lines: lines.length, coins }; if (lines.length) save.notice27 = lines;
@@ -368,7 +372,7 @@
   }
   if (TEST_MODE) {
     // unlock all content for testing; achievements and challenges stay open so they can be tried
-    save.skins = SKINS.map(k => k.id);
+    save.skins = SKINS.filter(k => k.id !== 'cyber').map(k => k.id);
     save.fxOwned = FX.map(f => f.id);
     save.pets = PETS.map(pt => pt.id);
     UPG.forEach(u => save.up[u.id] = u.cost.length);

diff --git a/kapli-3d/sw.js b/kapli-3d/sw.js
@@ -1,5 +1,5 @@
 /* Капли 3D: offline mode. Own cache name, never touches the catalog's caches on the same site. */
-const CACHE = "kapli3d-v411";
+const CACHE = "kapli3d-v413";
 const CORE = ["./", "index.html", "three.min.js", "supabase.js", "manifest.json", "icon-192.png", "icon-512.png", "icon-maskable-512.png", "apple-touch-icon.png", "chat-cosmos.svg", "chat-aurora.svg", "chat-sakura.svg", "chat-drops.svg", "chat-chronos-workshop.svg", "chat-chronos-city.svg", "chat-chronos-heart.svg", "chat-duo-border.svg", "chat-duo-backtoback.svg", "js/emotes.js", "js/errlog.js", "js/loader.js", "js/game/01-config.js", "js/game/02-save.js", "js/game/03-scene.js", "js/game/03b-evo.js", "js/game/04-arena.js", "js/game/05-achievements.js", "js/game/06-abilities.js", "js/game/07-round.js", "js/game/08-menus.js", "js/game/09-sound.js", "js/game/10-items-chests.js", "js/game/11-leagues.js", "js/game/12-profile.js", "js/game/13-world.js", "js/game/14-net.js", "js/game/14b-duo.js", "js/game/14c-duo-match.js", "js/game/14d-territory.js", "js/game/14e-duoback.js", "js/game/14f-modes.js", "js/game/15-boot.js", "js/game/14g-online-server.js", "js/app.js", "css/01-base.css", "css/02-leagues.css", "css/03-chat.css", "css/04-features.css", "css/05-chat-2.css"];
 self.addEventListener("install", e => { e.waitUntil(caches.open(CACHE).then(c => c.addAll(CORE)).then(() => self.skipWaiting())); });
 self.addEventListener("activate", e => {

diff --git a/kapli-3d/js/game/14-net.js b/kapli-3d/js/game/14-net.js
@@ -1560,7 +1560,7 @@
     if (save.chaosLog.length < 12) save.chaosLog = Array.from({ length: 12 }, (_, i) => ({ id: i + 1, tier: (CHAOS_TIERS.length - 1) - (i % CHAOS_TIERS.length), pts: 100 }));
     // workshop «Хронос» items stay out: they are made in the workshop (crafted ones are kept)
     const keep = (all, mine) => [...new Set([...all.filter(x => !x.craft).map(x => x.id), ...(mine || [])])];
-    save.skins = keep(SKINS, save.skins); save.fxOwned = keep(FX, save.fxOwned); save.pets = keep(PETS, save.pets); save.decor = keep(DECOR.filter(d => !d.old), save.decor).filter(id => !(decorById(id) || {}).old);   /* 2.7: retired frames/titles are not handed out in the test build either */ save.arenas = ARENAS.map(a => a.id); save.hats = Object.keys(HATS);
+    save.skins = keep(SKINS.filter(k => k.id !== 'cyber'), save.skins).filter(id => id !== 'cyber');   /* 2.7: «Кибер-сетка» retired */ save.fxOwned = keep(FX, save.fxOwned); save.pets = keep(PETS, save.pets); save.decor = keep(DECOR.filter(d => !d.old), save.decor).filter(id => !(decorById(id) || {}).old);   /* 2.7: retired frames/titles are not handed out in the test build either */ save.arenas = ARENAS.map(a => a.id); save.hats = Object.keys(HATS);
   }
   if (TEST_MODE) { testUnlockAll(); persist(); }
   if (TEST_MODE) {

diff --git a/kapli-3d/js/game/03-scene.js b/kapli-3d/js/game/03-scene.js
@@ -1293,7 +1293,7 @@ void main() { vec2 p = vW.xz; vec3 V = cameraPosition - vW; vec2 par = V.xz / ma
   function dressBot(o) {
     const base = { id: 'bot_' + o.name, color: o.baseColor };
     const pick = list => list[(Math.random() * list.length) | 0];
-    let sk = Math.random() < .5 ? pick(SKINS.filter(k => k.id !== 'default' && !k.legend && !k.skill && !k.tut && !k.craft && !EVO[k.id])) : base;   // 2.7: no skins with evolution on bots
+    let sk = Math.random() < .5 ? pick(SKINS.filter(k => k.id !== 'default' && !k.legend && !k.skill && !k.tut && !k.craft && !k.old && !EVO[k.id])) : base;   // 2.7: no skins with evolution on bots
     o.fx = {};
     for (const slot of ['trail', 'aura', 'eat']) if (Math.random() < .3) o.fx[slot] = pick(FX.filter(f => f.slot === slot && !f.legend && !f.craft)).id;
     if (o.star) { sk = SKINS.find(k => k.id === o.star.skin && !EVO[k.id]) || (isEvo(sk) ? base : sk); o.fx = { aura: o.star.aura, trail: o.star.trail, eat: 'supernova' }; }

diff --git a/kapli-3d/js/game/14c-duo-match.js b/kapli-3d/js/game/14c-duo-match.js
@@ -74,7 +74,7 @@
     // test build only: a match with a bot as the second player, no second phone and no network
     function practice(id) {
       if (!TEST_MODE) return;
-      const sk = SKINS.filter(k => k.id !== 'default' && !k.legend && !k.skill && !k.tut && !k.craft);
+      const sk = SKINS.filter(k => k.id !== 'default' && !k.legend && !k.skill && !k.tut && !k.craft && !k.old);
       const g = { t: 'go', m: id, seed: (Math.random() * 2 ** 31) | 0, ...duoBuilds(), name: Net.nick || 'Игрок', skin: save.skin, peerName: id === 'duoback' ? 'Бот-напарник' : 'Бот-соперник', peerSkin: sk[(Math.random() * sk.length) | 0].id };
       if (rules[id] && rules[id].goExtra) Object.assign(g, rules[id].goExtra());
       botMate = true; botGoal = null; begin('host', g);

diff --git a/kapli-3d/js/game/13-world.js b/kapli-3d/js/game/13-world.js
@@ -407,7 +407,7 @@
   function prewarmChunk(budgetMs) {
     try {
       if (!prewarmJobs) { prewarmVis = Array.from({ length: 8 }, () => makeVis(new THREE.Color('#8088c0')));
-        const skins = SKINS.filter(k => !k.craft && !EVO[k.id]);   // star bots wear legendary skins too
+        const skins = SKINS.filter(k => !k.craft && !k.old && !EVO[k.id]);   // star bots wear legendary skins too
         prewarmJobs = [...skins.flatMap(sk => [0, 1, 3].map(st => [sk, st])), ...FX.filter(f => f.slot === 'aura' && !f.craft).map(f => ['aura', f.id])]; }
       const t0 = performance.now();
       while (prewarmI < prewarmJobs.length && performance.now() - t0 < budgetMs) {
